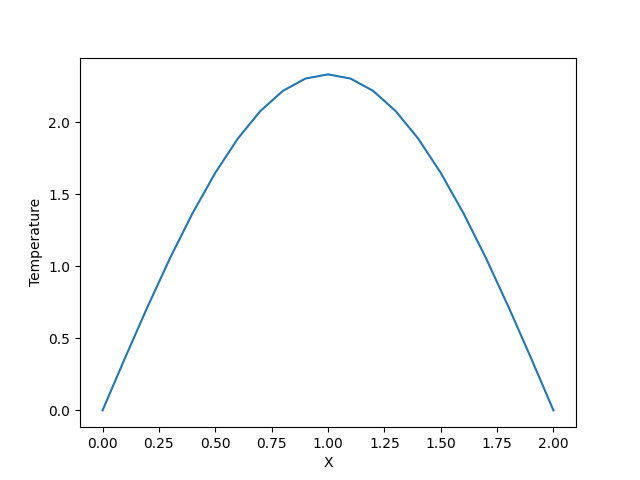
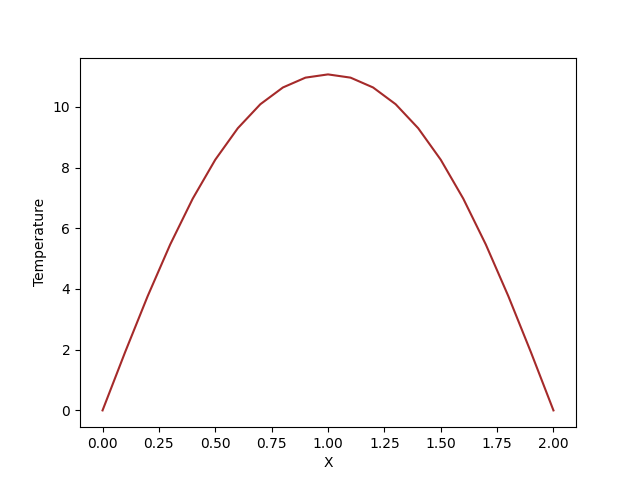
Done

diff --git a/q3.py b/q3.py
@@ -9,31 +9,31 @@ def sol_explicit(u, t_steps, alpha):
 x = np.linspace(0, 2, 21)
 #-----time steps--------#
 t = np.linspace(0, 40, 5001)
-#----Alpha factor------#
-alpha = 0.4
+#----Alpha factor------#--- a = dt/dx**2
+a = 0.08
 u = np.zeros((5001, 21))
 #------Initial condiitons------#
 u[0, :] = 20*np.abs(np.sin(np.pi*x))
 #-----Solving the equation---#
-u = sol_explicit(u, 5000, alpha)
+u = sol_explicit(u, 5000, a)
 #--------Plotting------#
 #--time = 0----------#
-plt.plot(x, u[0, :])
+plt.plot(x, u[0, :],color='orange')
 plt.xlabel('X')
 plt.ylabel('Temperature')
 plt.show()
 #--time = 10----------#
-plt.plot(x, u[10, :])
+plt.plot(x, u[10, :],color="red")
 plt.xlabel('X')
 plt.ylabel('Temperature')
 plt.show()
 #--time = 20----------#
-plt.plot(x, u[20, :])
+plt.plot(x, u[20, :],color="yellow")
 plt.xlabel('X')
 plt.ylabel('Temperature')
 plt.show()
 #--time = 50----------#
-plt.plot(x, u[50, :])
+plt.plot(x, u[50, :],color="green")
 plt.xlabel('X')
 plt.ylabel('Temperature')
 plt.show()
@@ -43,17 +43,20 @@ plt.xlabel('X')
 plt.ylabel('Temperature')
 plt.show()
 #--time = 200----------#
-plt.plot(x, u[200, :])
+plt.plot(x, u[200, :],color="brown")
 plt.xlabel('X')
 plt.ylabel('Temperature')
 plt.show()
 #--time = 500----------#
-plt.plot(x, u[500, :])
+plt.plot(x, u[500, :],color="magenta")
 plt.xlabel('X')
 plt.ylabel('Temperature')
 plt.show()
 
-
-#From the figures we can see that the temperature at the midpoint starts rising and attains a maxima.
-#As the boundary condition says that the temperature should be 0 at boundaries.
-#Most of the heat flows in the middle because of boundary conditions
+#By analyzing the plots and comparing it with our initial abs(sin(pi*x)) plot
+#and how with time the tip changes into a plataeu.
+#We can conclude that the temperature at the midpoint starts rising and is
+#attaining a maxima starting from a minima. It can also be infered if we look
+#at our boundary condition which says that the temperature should be 0 at boundaries.
+#So it automatically implies that somewhere in between should exist
+#some kind of maxima, most of the heat flows in the middle.

diff --git a/q1.py b/q1.py
@@ -4,30 +4,38 @@ from matplotlib import pyplot as plt
 import numpy as np
 
 #----------MLCG parameters--------#
-seed = 9
+seed = 7
 a = 572
 m = 16381
-N = 200
-M = 500
+n = 200
+m = 500
 #-------Random Walk using MLCG----------#
+#-----Takes seed,a,m,n,m as input, generates a list of random numbers
+#--------and use them for random walks------#
+#---returns avg rms value after 500 walks
 def mlcg_randwalk(N, M, seed, m, a, rNums):
-    # M walks of N steps
     rms = 0
     d = []
+    #500 random walks with 200 step size
     for i in range(0, M):
+        #Takes a set of random values gives back rms value
         d = random_walk(N,seed,m,a,rNums)
-        rms += (d[2][-1])**2
+        rms += (d[0][-1])**2
     return math.sqrt(rms/M)
+
 #------------Storing random numbers-------#
-rNums = [0]*N
-rms = mlcg_randwalk(N, M, seed, m, a, rNums)
-print("RMS value obtained from random walk :",rms,"\n","Square root of N is                :",math.sqrt(N))
+val = [0]*n
+#---------Calling the new randomly generated walks function-----#
+rms = mlcg_randwalk(n, m, seed, m, a, val)
+print("RMS distance obtained from 500 random walks :",rms,"\n","Square root of N is                :",math.sqrt(n))
 
 #----------------Results-------------#
-#RMS value obtained from random walk : 15.383076564051871
+#RMS distance obtained from random walk : 14.089723524998776
 #Square root of N is                : 14.142135623730951
 
-
+#From the values obtained after M random walks of N steps we can see the
+#the avg rms distance is proportional to square root of N or independent
+#of the number of walks done.
 
 
 

diff --git a/MNL.py b/MNL.py
@@ -2,7 +2,6 @@ import numpy as np
 import sys
 import math
 import copy
-from scipy.special.orthogonal import p_roots
 import random
 
 
@@ -590,7 +589,7 @@ def random_walk(N, Xo, m, a, rNums):
         x.append(dx)
         y.append(dy)
     r.append(R)
-    return x, y, r
+    return r,x,y
 
 #Defining the function for chebyshev fit
 def fitw_cheby(xvals, yvals, degree):
